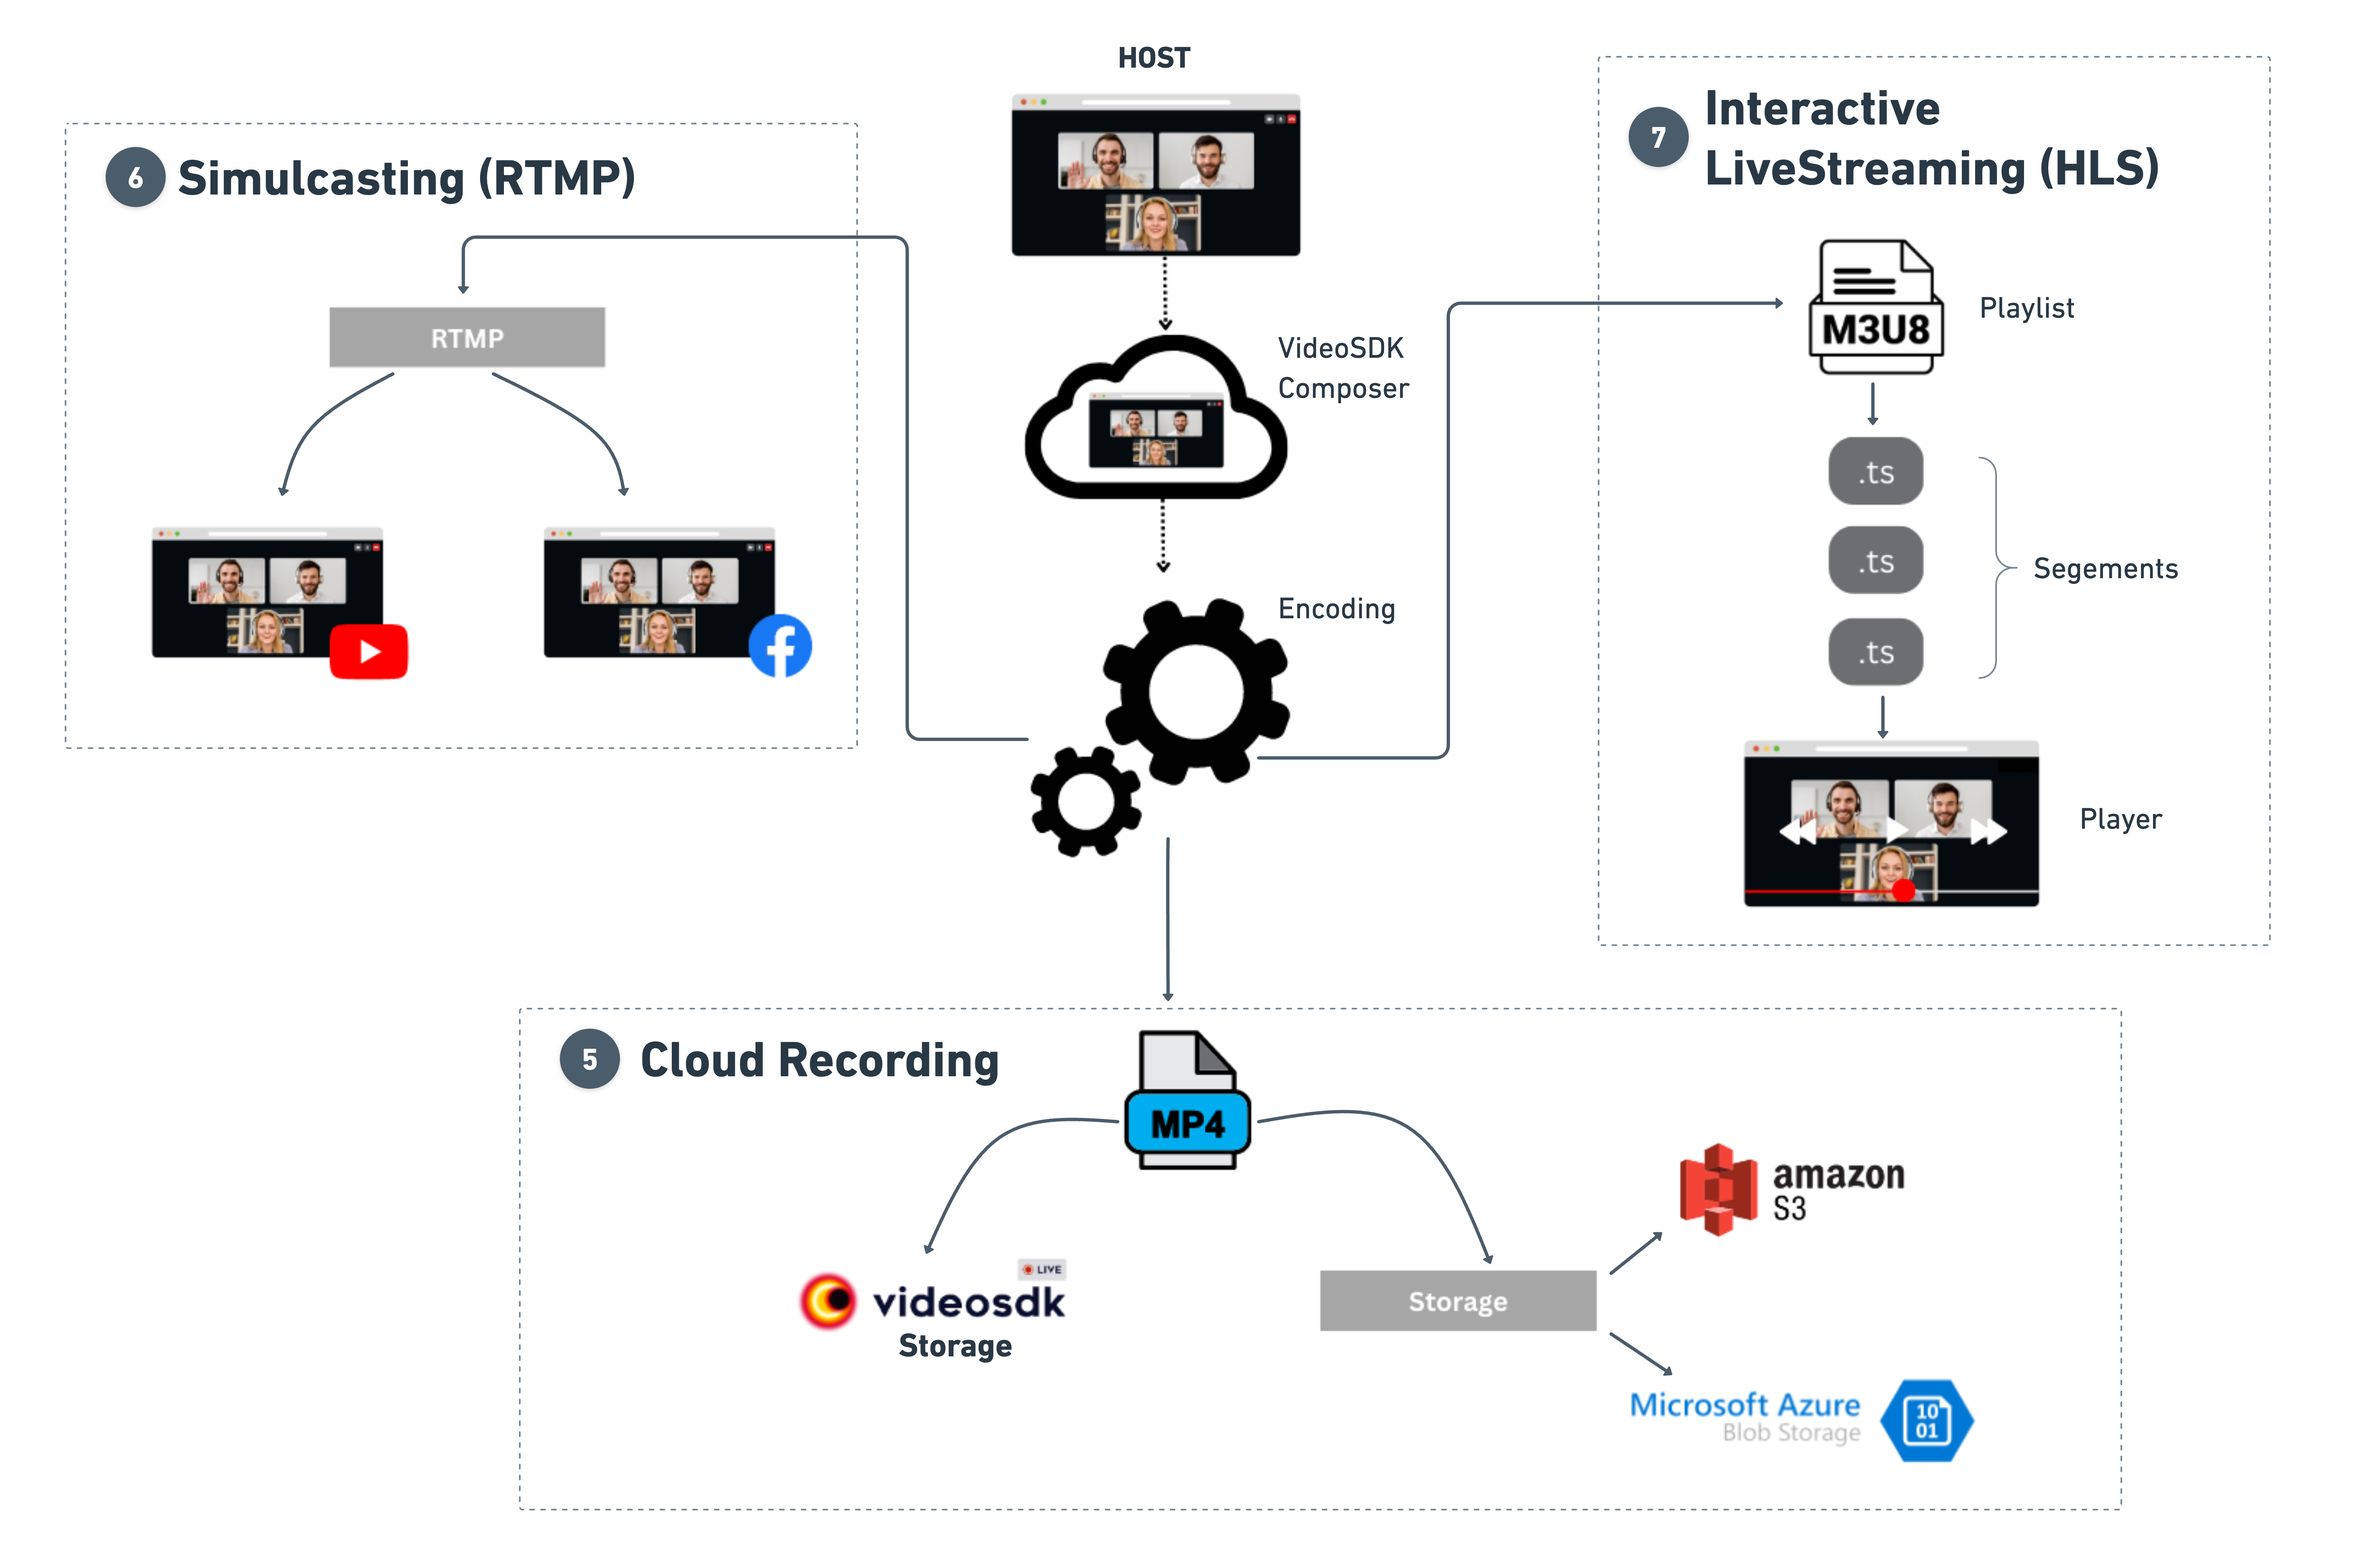
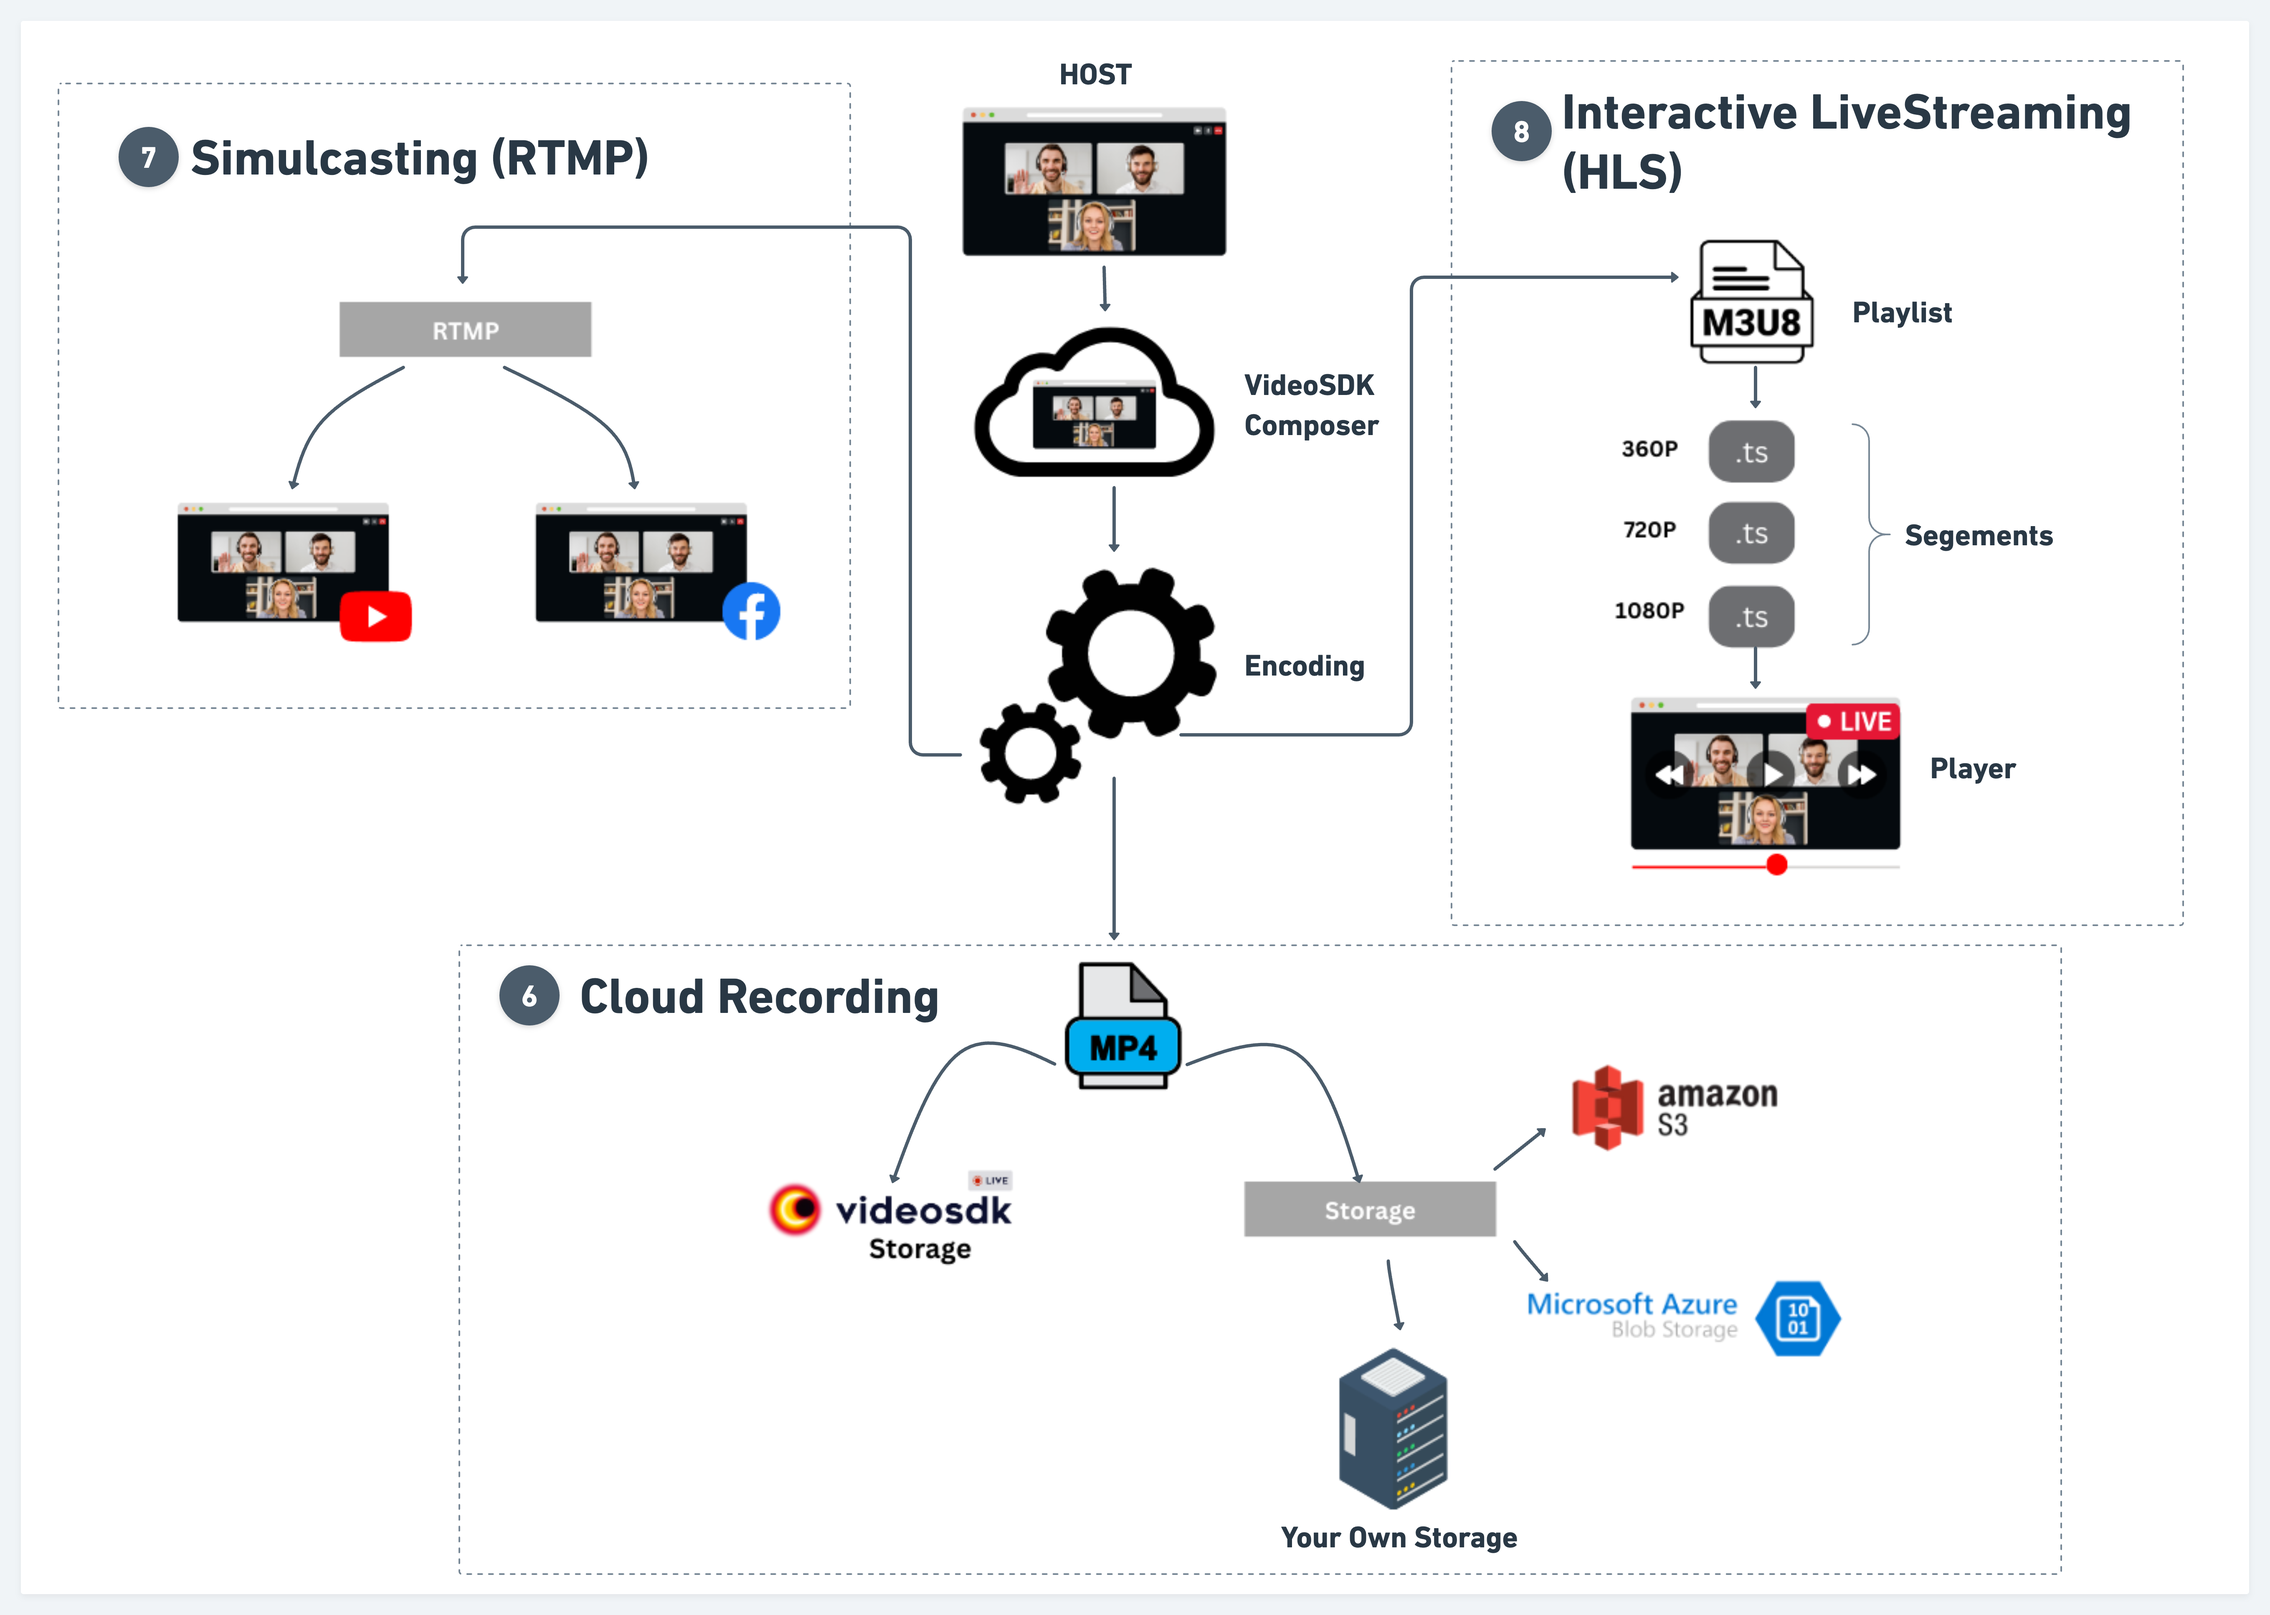
Update Concept and Architecture guide

diff --git a/react_docs_versioned_docs/version-0.1.x/guide/video-and-audio-calling-api-sdk/concept-and-architecture.md b/react_docs_versioned_docs/version-0.1.x/guide/video-and-audio-calling-api-sdk/concept-and-architecture.md
@@ -43,18 +43,29 @@ Before dive in to the concept, let's understand the VideSDK, VideoSDK is a softw
 
 - Events / Notifications can be used to inform users about various activities happening in a Meeting / Room, including participant join/leave and new messages. They can also be used to alert users about any SDK-level errors that occur during a call.
 
+---
+
+![img.png](../../../../static/img/meeting-session.jpg)
+
+### `5. Session`
+
+- A Session is the instance of an ongoing meeting/room which has one or more participants in it. A single room or meeting can have multiple sessions.
+- Each session can be uniquely identified by `sessionId`.
+
+---
+
 ![img.png](../../../../static/img/recording-hls-rtmp.png)
 
-### `5. Cloud Recording`
+### `6. Cloud Recording`
 
 - Cloud recording in VideoSDK refers to the process of recording audio or video content and storing it on a remote server or VideoSDK server.
 
-### `6. Simulcasting (RTMP)`
+### `7. Simulcasting (RTMP)`
 
 - RTMP is a popular protocol for live streaming video content from a VideoSDK to platforms such as YouTube, Twitch, Facebook, and others.
 - By providing the platform-specific `stream key` and `stream URL`, the VideoSDK can connect to the platform's RTMP server and transmit the live video stream.
 
-### `7. Interactive Live Streaming (HLS)`
+### `8. Interactive Live Streaming (HLS)`
 
 - Interactive live streaming (HLS) refers to a type of live streaming where viewers can actively engage with the content being streamed and with other viewers in real-time.
 
